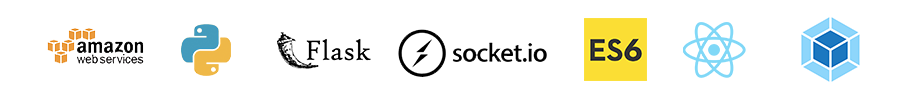
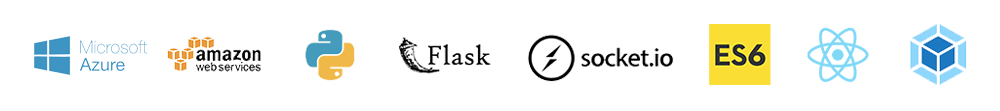
Updated landing page

Changed region(s): [[0.0311, 0.18, 0.9644, 0.81]]

diff --git a/frontend/components/landing/index.js b/frontend/components/landing/index.js
@@ -7,7 +7,9 @@ const Landing = () => (
     <Hero />
     <div className="container">
       <div className="copy">
-        <img className="u-max-full-width" src="/static/assets/screen2.jpg" />
+        <div className="copy-image">
+          <img className="u-max-full-width" src="/static/assets/screen2.jpg" />
+        </div>
         <hr />
         <div className="row">
           <div className="eight columns">
@@ -23,7 +25,9 @@ const Landing = () => (
           </div>
         </div>
         <hr />
-        <img className="u-max-full-width" src="/static/assets/tech.png" />
+        <div className="copy-image">
+          <img className="u-max-full-width" src="/static/assets/tech.png" />
+        </div>
       </div>
     </div>
   </div>

diff --git a/frontend/styles/components/landing.scss b/frontend/styles/components/landing.scss
@@ -6,6 +6,11 @@
 
   > .container > .copy {
     padding: $interaction-size 0;
+
+    > .copy-image {
+      text-align: center;
+      width: 100%;
+    }
   }
 }
 
